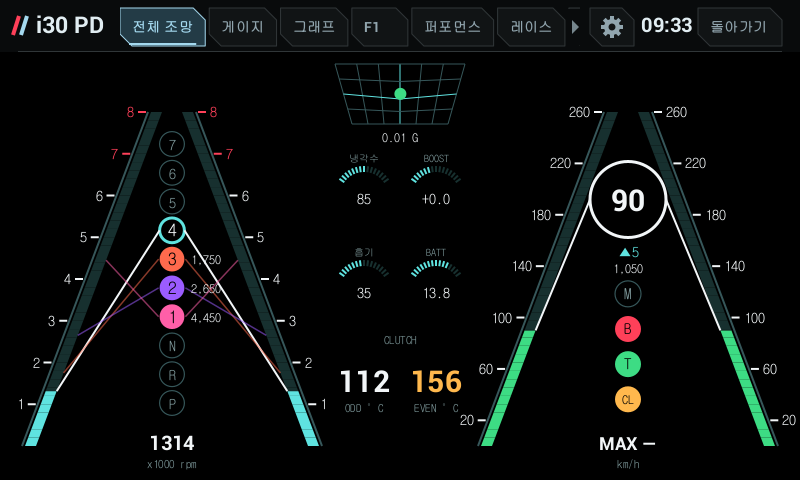
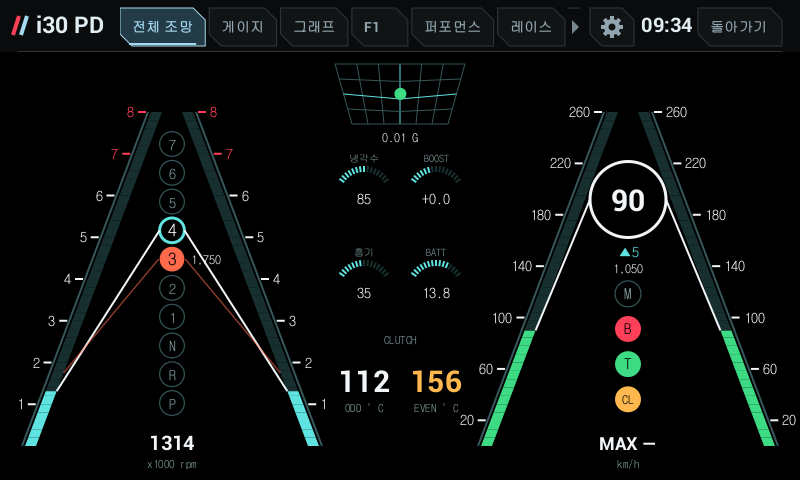
수동 screen on a DCT: only the next gear down (the paddle steps one gear at a time)

Changed region(s): [[0.1562, 0.5625, 0.3125, 0.6875], [0.8438, 0.0312, 0.875, 0.0625]]

diff --git a/shared/src/com/veloster/vehicle/RevMatch.java b/shared/src/com/veloster/vehicle/RevMatch.java
@@ -24,11 +24,13 @@ public final class RevMatch {
         if(applies(p))return Telemetry.mtRpmIn(kmh,g);
         return learned==null?Float.NaN:learned.rpmIn(kmh,g);
     }
-    /** Fills gear[] / rpm[] (length 3, one gear down first) with the gears worth showing; returns how many. */
+    /** Fills gear[] / rpm[] (length 3, one gear down first) with the gears worth showing; returns how many. A 6MT gets
+     *  up to three gears down (skip shifts); a DCT only the next one down (the paddle steps one gear at a time). */
     public static int targets(Telemetry.Sample[] s,VehicleProfile p,GearRatios learned,int[] gear,float[] rpm){
         Telemetry.Sample g=s[8],v=s[7];if(!g.valid||!v.valid||!(v.value>=10))return 0;
         int cur=(int)g.value,n=0;if(cur<2||cur>p.topGear)return 0;
-        for(int k=1;k<=3&&cur-k>=1;k++){float t=rpmIn(p,learned,v.value,cur-k);
+        int most=p.trans==VehicleProfile.Trans.MT?3:1;
+        for(int k=1;k<=most&&cur-k>=1;k++){float t=rpmIn(p,learned,v.value,cur-k);
             if(t>=LOW_RPM&&t<p.redline){gear[n]=cur-k;rpm[n]=t;n++;}}
         return n;
     }

diff --git a/i30pd_port/app/TABS.md b/i30pd_port/app/TABS.md
@@ -103,7 +103,7 @@ F1 탭처럼 평면 패널(직사각형, 1 px 테두리)과 F1 색으로, 애프
 화면 목록 맨 끝 `수동`. 람보르기니 레벤톤 디지털 모드의 배치를 참고한(그래픽은 우리 것) 좌우 대칭 화면이다. 6MT와 7DCT 모두 쓸 수 있다.
 
 - **왼쪽 Λ = RPM**: 두 사선이 함께 차오른다(변속 목표에서 파랑 깜빡임, 6MT 블립이 맞으면 초록). 꼭짓점 아래 **단 표시 열**(6MT `6~1 N R`, 7DCT `7~1 N R P`)에서 지금 단에 링이 쳐지고, 그 링에서 양쪽 사선의 **지금 RPM 높이**로 흰 선이 이어진다.
-- **내릴 단**: 1~3단 아래 중 1,500 rpm 이상·레드라인 미만인 단이 그 단 색의 원으로 바뀌고, 사선의 목표 RPM 높이에서 선이 이어지며 옆에 RPM이 나온다(넘치는 단은 그냥 안 나옴). 6MT는 1.6 T-GDi 6MT 기어비로 계산(`Telemetry.mtRpmIn`), 7DCT는 주행 중 단마다 RPM÷속도를 배워서 계산(`GearRatios`: 클러치 닫힘·20 km/h·1,000 rpm 이상으로 1.5초 유지된 단만, 앱을 켠 뒤 그 단을 한 번 달려야 나옴).
+- **내릴 단**: 6MT는 1~3단 아래(스킵 시프트 포함), 7DCT는 바로 아래 단 하나만. 그중 1,500 rpm 이상·레드라인 미만인 단이 그 단 색의 원으로 바뀌고, 사선의 목표 RPM 높이에서 선이 이어지며 옆에 RPM이 나온다(넘치는 단은 그냥 안 나옴). 6MT는 1.6 T-GDi 6MT 기어비로 계산(`Telemetry.mtRpmIn`), 7DCT는 주행 중 단마다 RPM÷속도를 배워서 계산(`GearRatios`: 클러치 닫힘·20 km/h·1,000 rpm 이상으로 1.5초 유지된 단만, 앱을 켠 뒤 그 단을 한 번 달려야 나옴).
 - **오른쪽 Λ = 속도**: 같은 모양, 꼭짓점 아래 속도 원에서 지금 속도 높이로 흰 선. 그 아래 ▲다음 단 착지 RPM과 표시등 열: 6MT `C`(클러치)·`B`·`T`·`HT`(힐앤토), 7DCT `M`(수동 모드)·`B`·`T`·`CL`(클러치 온도 주황/빨강). 맨 아래 이번 주행 최고 속도.
 - **가운데**: 곡면 격자 G 미터, 작은 계기 넷(냉각수·부스트·흡기·배터리), 맨 아래 6MT는 **변속 점수**(`ShiftCoach`), 7DCT는 홀·짝 클러치 온도.
 - **변속 점수(6MT)**: 클러치를 뗀 순간 RPM과 새 단이 그 속도에서 도는 RPM의 차이, 뗀 뒤 0.6초 동안의 꿀렁임(앞뒤 G의 최대−최소에서 처음·끝 차이를 뺀 값, 떼기 직전 G 기준)으로 S(±100 rpm·0.15 G)·A(±250·0.25)·B(±500)·C. 힐앤토(클러치 밟은 채 브레이크 5 bar·가속 10 % 넘음)는 H&T. A 이상 연속 기록.
